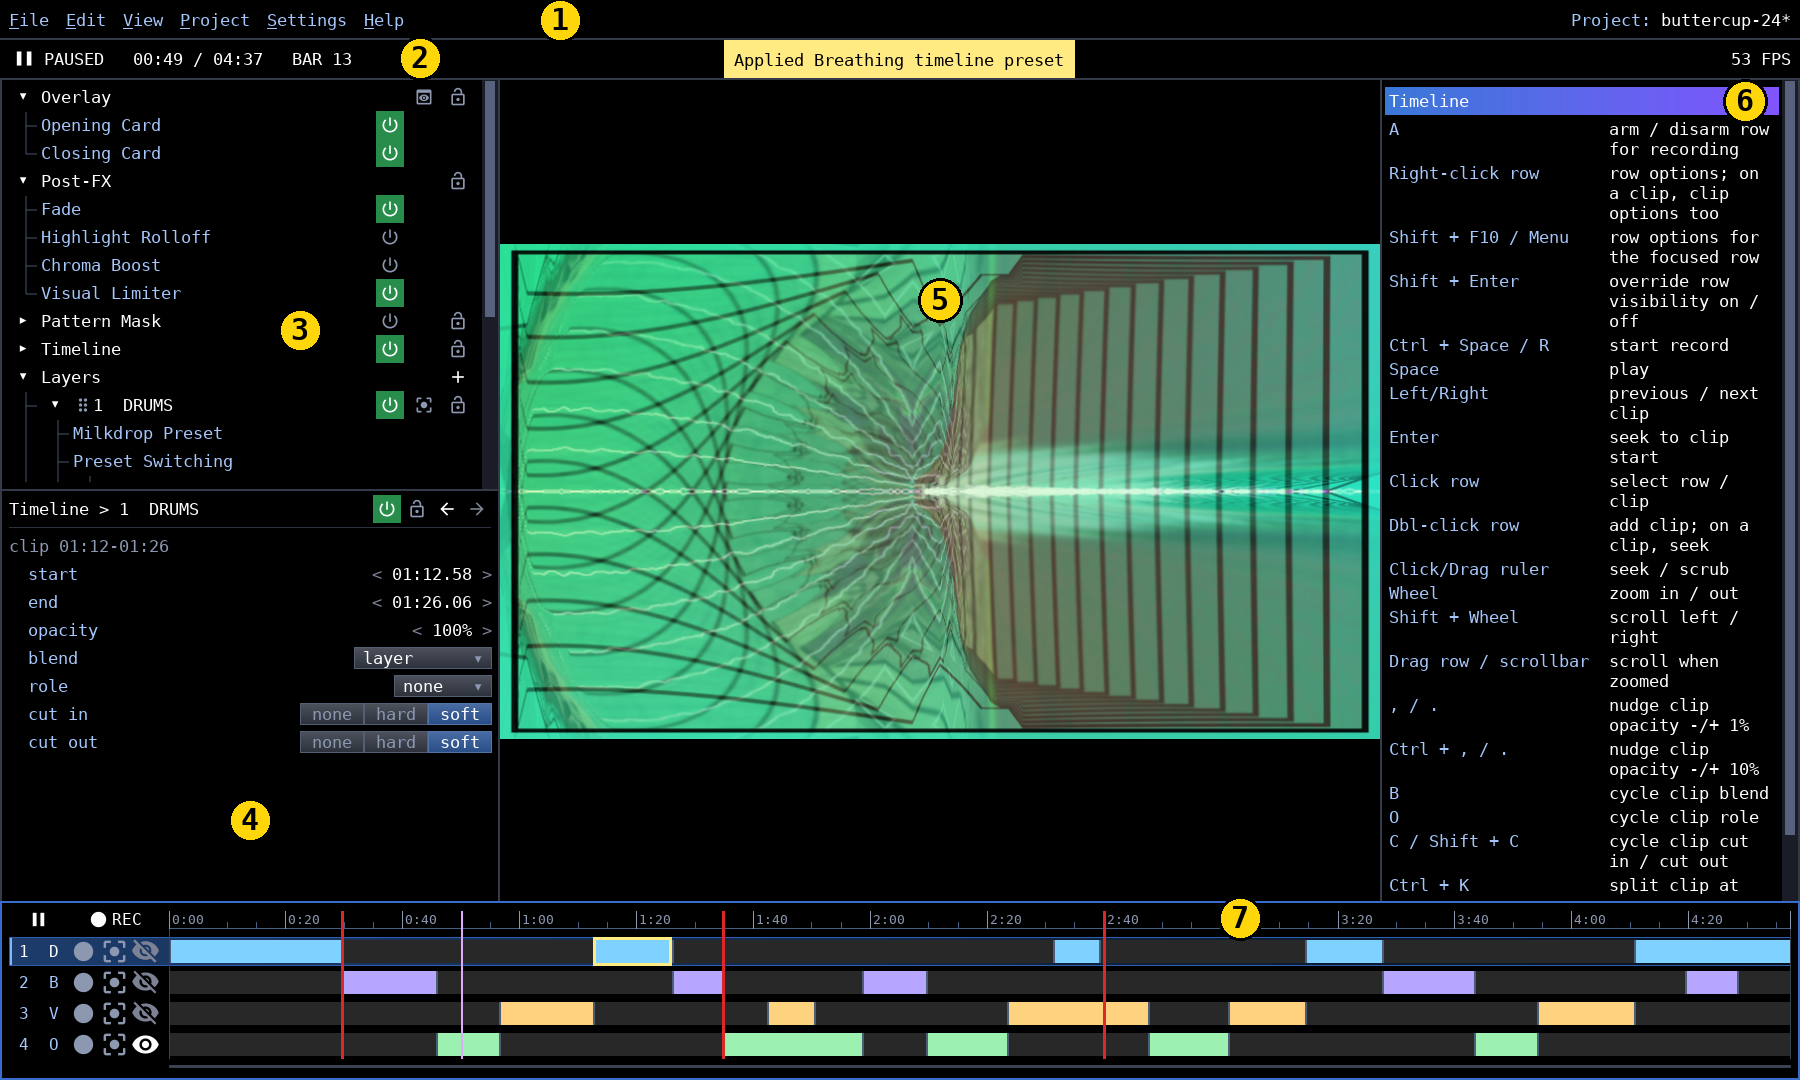
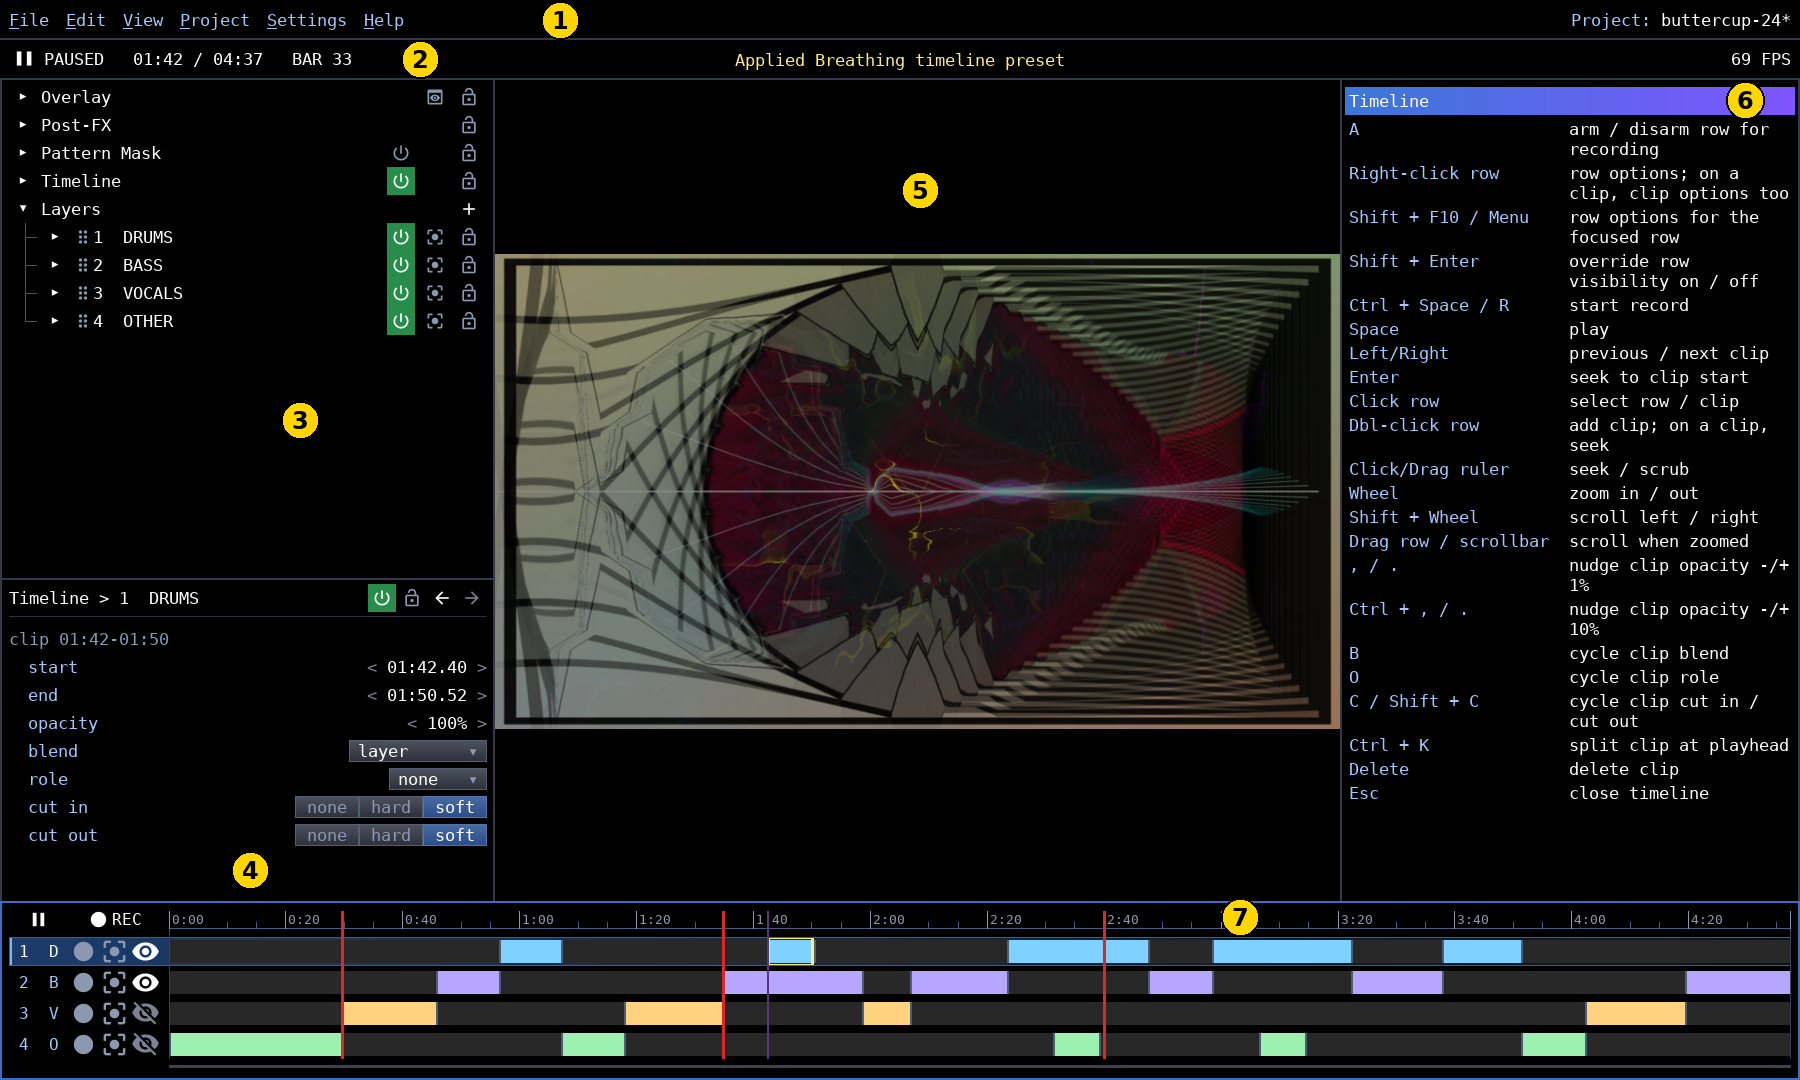
Retake user guide screenshots and rewrite dialog help text
- Retake all twelve user guide screenshots against the current editor,
  with the help column showing the rewritten help text.
- Guide: describe the Generate timeline conductor option and the cue
  roles source in Populate.
- Dialog help (Generate timeline, Render, Snap cues, Set cut type, audio
  latency): rewrite in the new voice, and join sentences that were split
  across help lines and drew as separate paragraphs.

diff --git a/cleave/viz/timeline_preset_controls.py b/cleave/viz/timeline_preset_controls.py
@@ -85,18 +85,12 @@ _KIND_BUILDERS = {
 
 
 _GENERATE_HELP = (
-    "Makes a new timeline from these settings.",
-    "This replaces the current cues.",
-    "Arrangement decides which layers play when.",
-    "Cue timing and cuts then tidy every generated cue.",
-    "Preset lists can then be refilled to match.",
-    "In layers mode, each crescendo song marker gets a crescendo.",
-    "The project keeps these settings.",
+    "Builds a new timeline from these settings, replacing the current cues. Arrangement decides which layers play when, cue timing and cuts then tidy every generated cue, and preset lists can be refilled to suit.",
+    "In layers mode, each crescendo song marker gets a crescendo. The project remembers these settings for next time.",
 )
 _CHARACTER_HELP = ("The shape of the arrangement: which layers play together, and when.",)
 _DENSITY_HELP = (
-    "How many layers tend to play at once.",
-    "Sparse favours solos; dense keeps more of the stack on.",
+    "How many layers tend to play at once: sparse favours solos, dense keeps more of the stack in.",
 )
 _CUE_SNAP_HELP = ("Moves every generated cue onto the beat or bar grid.",)
 _CUE_SNAP_OPTION_HELP = {
@@ -105,13 +99,10 @@ _CUE_SNAP_OPTION_HELP = {
     "bars": "move each cue to the nearest bar.",
 }
 _SONG_MARKER_SNAP_HELP = (
-    "Moves the closest cue on each layer onto each song marker,",
-    "when it is no further away than this.",
-    "none leaves the cues where they are.",
+    "Pulls the nearest cue on each layer onto each song marker, if it is within this distance. none leaves the cues where they are.",
 )
 _TIMELINE_CUTS_HELP = (
-    "The cut type each generated cue gets.",
-    "The timeline's cue fades set the fade for each type.",
+    "The cut type each generated cue gets. Fade lengths for each type come from Timeline > Cue Fades.",
 )
 _TIMELINE_CUTS_OPTION_HELP = {
     "by marker": "hard cuts on song markers, soft cuts elsewhere.",
@@ -120,8 +111,7 @@ _TIMELINE_CUTS_OPTION_HELP = {
     "none": "keep the cut each cue was made with.",
 }
 _REPOPULATE_HELP = (
-    "Refills the preset list of each layer whose preset switching is on",
-    "with the timeline trigger.",
+    "Rebuilds the preset list of every layer that switches presets on the timeline trigger.",
 )
 _REPOPULATE_OPTION_HELP = {
     "no": "keep the preset lists.",
@@ -130,16 +120,13 @@ _REPOPULATE_OPTION_HELP = {
     "directory sequential": "fill from the layer's preset directory, in order.",
 }
 _CONDUCTOR_HELP = (
-    "Uses the stems' audio to choose which layers lead each phrase",
-    "and how bright each one is.",
-    "In layers mode, standard song markers also get an accent.",
-    "Needs analysed signals; without them it is skipped.",
+    "Uses the stems' audio to decide which layers lead each phrase and how bright each one is. In layers mode, plain song markers also get an accent. It needs the song's audio analysis and is skipped without it.",
 )
 _CONDUCTOR_OPTION_HELP = {
     False: "levels come from the character alone.",
     True: "levels follow the music.",
 }
-_MODE_HELP = ("How the layers are staged.",)
+_MODE_HELP = ("How the arrangement brings layers in and out.",)
 _MODE_OPTION_HELP = {
     "layers": "cues turn whole layers on and off, shaped by the character.",
     "pattern_mask": (

diff --git a/cleave/viz/project_render_controls.py b/cleave/viz/project_render_controls.py
@@ -45,8 +45,7 @@ from cleave.viz.session import TuningSession
 _FORM_TITLE = "Render project"
 _RANGE_STEP_LARGE_SEC = 10
 _FORM_HELP = (
-    "Renders the project to an MP4 video file in the project's renders directory.",
-    "Fps is saved with the project. Quality, start, and end last until the editor closes.",
+    "Renders the project to an MP4 in the project's renders folder. Fps is saved with the project; quality, start, and end are kept until the editor closes.",
 )
 _FPS_OPTIONS = tuple(range(RENDER_FPS_MIN, RENDER_FPS_MAX + 1))
 _PROGRESS_MESSAGE = "Rendering…"
@@ -192,7 +191,7 @@ class ProjectRenderController:
                         "quality",
                         PROJECT_RENDER_QUALITIES,
                         choice_index(PROJECT_RENDER_QUALITIES, render.quality),
-                        help=("Speed or quality for the render.",),
+                        help=("Trades render speed against output quality.",),
                         option_help=tuple(
                             text for _mode, text in PROJECT_RENDER_QUALITY_HELP_ENTRIES
                         ),

diff --git a/cleave/viz/timeline_snap_controls.py b/cleave/viz/timeline_snap_controls.py
@@ -33,8 +33,7 @@ _TARGET_SONG_MARKERS = "song markers"
 _DEFAULT_PROXIMITY = 5.0
 
 _SNAP_HELP = (
-    "Moves the cues already on the timeline.",
-    "Cues that land on the same time merge.",
+    "Quantises the cues already on the timeline. Cues that land on the same time merge.",
 )
 _TARGET_HELP = ("Where the cues move to.",)
 _TARGET_OPTION_HELP = {
@@ -43,8 +42,7 @@ _TARGET_OPTION_HELP = {
     _TARGET_SONG_MARKERS: "cues near a song marker move onto it.",
 }
 _PROXIMITY_HELP = (
-    "How far from a song marker a cue can be and still move onto it.",
-    "Cues further away stay where they are.",
+    "How far from a song marker a cue can be and still be pulled onto it; cues further away stay put.",
 )
 _SCOPE_HELP = ("Which layers' cues move onto the song markers.",)
 _SCOPE_OPTION_HELP = {

diff --git a/cleave/viz/timeline_cut_controls.py b/cleave/viz/timeline_cut_controls.py
@@ -30,8 +30,7 @@ _SCOPE_LABELS = ("all cues", "except markers", "markers only")
 _DEFAULT_CUT_INDEX = 1
 
 _SET_CUT_HELP = (
-    "Sets the cut type of many cues at once.",
-    "The timeline's cue fades set the fade for each type.",
+    "Sets the cut type on many cues in one go. Fade lengths for each type come from Timeline > Cue Fades.",
 )
 _CUT_HELP = ("The cut type the cues get.",)
 _CUT_OPTION_HELP = (

diff --git a/cleave/viz/tap_sync_controls.py b/cleave/viz/tap_sync_controls.py
@@ -39,8 +39,7 @@ _APPLY_TITLE = "Detected audio latency"
 _LATENCY_STEP_MS = 10
 _LATENCY_LARGE_STEPS = 5
 _LATENCY_HELP = (
-    "Corrects for audio delay that Cleave cannot measure.",
-    "Starts on the measured value. Left/Right move in 10 ms steps.",
+    "Compensates for audio delay Cleave cannot measure. It starts at the measured value, and Left/Right adjust it in 10 ms steps.",
 )
 
 

diff --git a/docs/user-guide/README.md b/docs/user-guide/README.md
@@ -228,7 +228,7 @@ The rest of the page controls how long each preset plays and how it transitions 
 The **Preset List** page holds the presets the layer cycles through, in order. It appears whenever switching is not off.
 
 - **Add to preset list** (or P from any of the layer's rows) appends the preset you are looking at.
-- **Populate** fills the list from the current folder, shuffled or in order.
+- **Populate** rebuilds the list from the current folder, shuffled or in order. With the timeline trigger it can also cast one preset for each time the layer comes in, picked by that cue's role.
 - **Enter** on an entry plays it immediately and pauses switching; **Resume** hands control back to the list.
 - **Drag** an entry's handle, or press M, to reorder it, and press **Delete** to remove it.
 
@@ -293,6 +293,7 @@ The fastest way to get started is to let Cleave build an arrangement. Choose **G
 - **mode:** either switch whole layers in and out, or swap them through the [Pattern Mask](#pattern-mask).
 - **character:** the shape of the arrangement. Breathing is mostly one layer, sometimes two; Dialogue has the layers answer each other; Arc builds to a single climax and then settles; Pulse runs one layer at a time with short pairs.
 - **density:** how busy the arrangement is.
+- **conductor:** optionally lets the stems' audio decide which layers lead each phrase and how bright each one is.
 - **snap** and **cut type:** how cues align to the beat grid and how layers transition.
 - **refill preset lists:** optionally rebuilds each layer's preset list to suit.
 

diff --git a/README.md b/README.md
@@ -1,6 +1,6 @@
 # `Cleave`
 
-[![Version](https://img.shields.io/badge/version-v0.3.0--350%20%28dev%20build%29-orange)](https://github.com/SpoddyCoder/cleave/compare/v0.3.0...ui-refactor) [![Tests](https://github.com/SpoddyCoder/cleave/actions/workflows/tests.yml/badge.svg)](https://github.com/SpoddyCoder/cleave/actions/workflows/tests.yml)
+[![Version](https://img.shields.io/badge/version-v0.3.0--351%20%28dev%20build%29-orange)](https://github.com/SpoddyCoder/cleave/compare/v0.3.0...ui-refactor) [![Tests](https://github.com/SpoddyCoder/cleave/actions/workflows/tests.yml/badge.svg)](https://github.com/SpoddyCoder/cleave/actions/workflows/tests.yml)
 
 Stem-separated music visualizer. Layer together drums, bass, vocals and other stems - each driving Milkdrop presets to create your own unique visual masterpieces.
 
